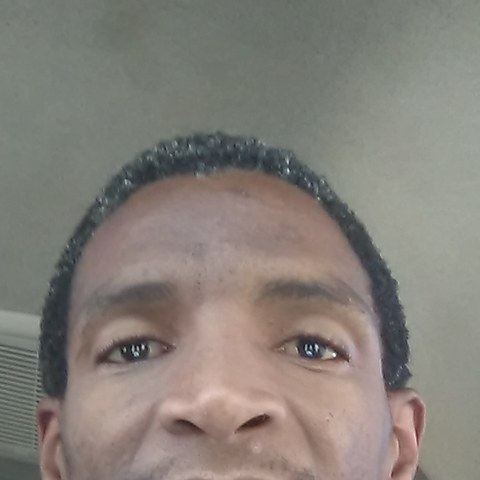
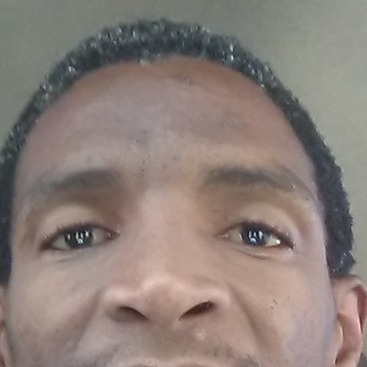
Profile photo crop + centre onto live deploy branch

diff --git a/style.css b/style.css
@@ -113,7 +113,7 @@ h2::after { content: ""; display: block; width: 56px; height: 4px; background: v
 
 /* About */
 .about { display: grid; grid-template-columns: 280px 1fr; gap: 48px; align-items: center; }
-.photo { width: 240px; height: 240px; border-radius: 14px; object-fit: cover; object-position: center 28%; background: var(--surface); border: 3px solid var(--accent); display: block; box-shadow: 0 12px 32px rgba(40,20,10,.14); }
+.photo { width: 240px; height: 240px; border-radius: 14px; object-fit: cover; object-position: center; background: var(--surface); border: 3px solid var(--accent); display: block; box-shadow: 0 12px 32px rgba(40,20,10,.14); }
 .about-photo { position: relative; width: 240px; height: 240px; }
 .about-photo::before { content: ""; position: absolute; inset: -8px; border-radius: 18px; background: var(--accent-soft); filter: blur(12px); opacity: .6; z-index: -1; }
 .about-info { margin: 18px 0; }
